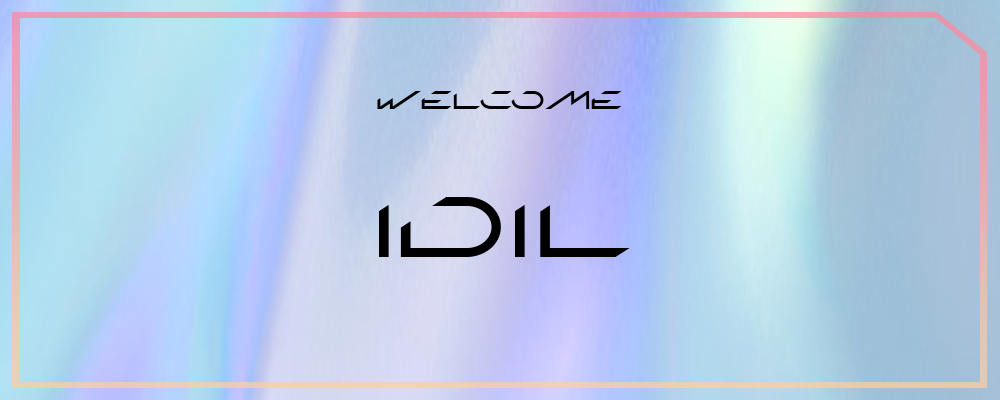
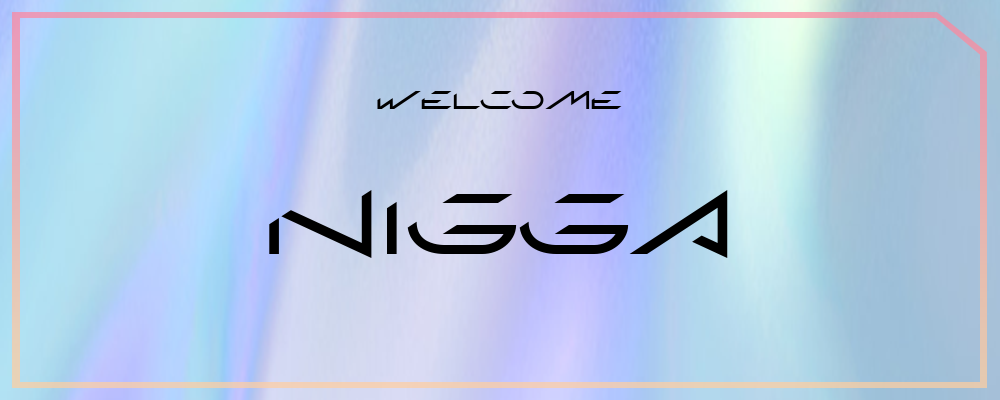
DEMO 5

Changed region(s): [[0.248, 0.48, 0.744, 0.66], [0.558, 0.48, 0.62, 0.51]]

diff --git a/demo5.py b/demo5.py
@@ -2,27 +2,28 @@ from PIL import ImageFont, ImageDraw, Image
 import cv2
 import numpy as np
 
-text_to_show = "Welcome"
-nickName = "Idil"
+def main(nickname="WOOSAL"):
 
-W, H = (1000, 400)
-image = cv2.imread("Backgrounds/templatefaded.png")
-cv2_im_rgb = cv2.cvtColor(image, cv2.COLOR_BGR2RGB)
-pil_im = Image.fromarray(cv2_im_rgb)
+    text_to_show = "Welcome"
 
-font = ImageFont.truetype("Fonts/KDA.ttf", 25)
-Font = ImageFont.truetype("Fonts/KDA.ttf", 85)
-draw = ImageDraw.Draw(pil_im)
+    W, H = (1000, 400)
+    image = cv2.imread("Backgrounds/templatefaded.png")
+    cv2_im_rgb = cv2.cvtColor(image, cv2.COLOR_BGR2RGB)
+    pil_im = Image.fromarray(cv2_im_rgb)
 
-w, h = draw.textsize(text_to_show, font=font)
-nickNamew, nickNameh = draw.textsize(nickName, font=Font)
+    font = ImageFont.truetype("Fonts/KDA.ttf", 25)
+    Font = ImageFont.truetype("Fonts/KDA.ttf", 85)
+    draw = ImageDraw.Draw(pil_im)
+    
+    w, h = draw.textsize(text_to_show, font=font)
+    nickNamew, nickNameh = draw.textsize(nickname, font=Font)
 
-draw.text(((W-w)/2,(H-h-200)/2), text_to_show, fill="black", font=font)
-draw.text(((W-nickNamew)/2,(H-nickNameh+50)/2), nickName, fill="black", font=Font)
+    draw.text(((W-w)/2,(H-h-200)/2), text_to_show, fill="black", font=font)
+    draw.text(((W-nickNamew)/2,(H-nickNameh+50)/2), nickname, fill="black", font=Font)
 
-cv2_im_processed = cv2.cvtColor(np.array(pil_im), cv2.COLOR_RGB2BGR)
-cv2.imwrite("welcome.png", cv2_im_processed)
-cv2.imshow('Fonts', cv2_im_processed)
-cv2.waitKey(0)
+    cv2_im_processed = cv2.cvtColor(np.array(pil_im), cv2.COLOR_RGB2BGR)
+    cv2.imwrite("welcome.png", cv2_im_processed)
+    cv2.imshow('Fonts', cv2_im_processed)
+    cv2.waitKey(0)
 
-cv2.destroyAllWindows()
+    cv2.destroyAllWindows()

diff --git a/main.py b/main.py
@@ -1,24 +1,3 @@
-import numpy as np
-from PIL import ImageFont, ImageDraw, Image
-import cv2
-import time
+import demo5
 
-## Make canvas and set the color
-img = np.zeros((200,400,3),np.uint8)
-b,g,r,a = 0,255,0,0
-
-## Use cv2.FONT_HERSHEY_XXX to write English.
-text = time.strftime("%Y/%m/%d %H:%M:%S %Z", time.localtime())
-cv2.putText(img,  text, (50,50), cv2.FONT_HERSHEY_SIMPLEX, 0.7, (b,g,r), 1, cv2.LINE_AA)
-
-## Use simsum.ttc to write Chinese.
-fontpath = "./simsun.ttc"
-font = ImageFont.truetype(fontpath, 32)
-img_pil = Image.fromarray(img)
-draw = ImageDraw.Draw(img_pil)
-draw.text((50, 100),  "OK", font = font, fill = (b, g, r, a))
-img = np.array(img_pil)
-
-## Display
-cv2.imshow("res", img);cv2.waitKey();cv2.destroyAllWindows()
-cv2.imwrite("res.png", img)
+demo5.main("Boomer")

diff --git a/demo6.py b/demo6.py
@@ -1,0 +1,24 @@
+import numpy as np
+from PIL import ImageFont, ImageDraw, Image
+import cv2
+import time
+
+## Make canvas and set the color
+img = np.zeros((200,400,3),np.uint8)
+b,g,r,a = 0,255,0,0
+
+## Use cv2.FONT_HERSHEY_XXX to write English.
+text = time.strftime("%Y/%m/%d %H:%M:%S %Z", time.localtime())
+cv2.putText(img,  text, (50,50), cv2.FONT_HERSHEY_SIMPLEX, 0.7, (b,g,r), 1, cv2.LINE_AA)
+
+## Use simsum.ttc to write Chinese.
+fontpath = "./simsun.ttc"
+font = ImageFont.truetype(fontpath, 32)
+img_pil = Image.fromarray(img)
+draw = ImageDraw.Draw(img_pil)
+draw.text((50, 100),  "OK", font = font, fill = (b, g, r, a))
+img = np.array(img_pil)
+
+## Display
+cv2.imshow("res", img);cv2.waitKey();cv2.destroyAllWindows()
+cv2.imwrite("res.png", img)
